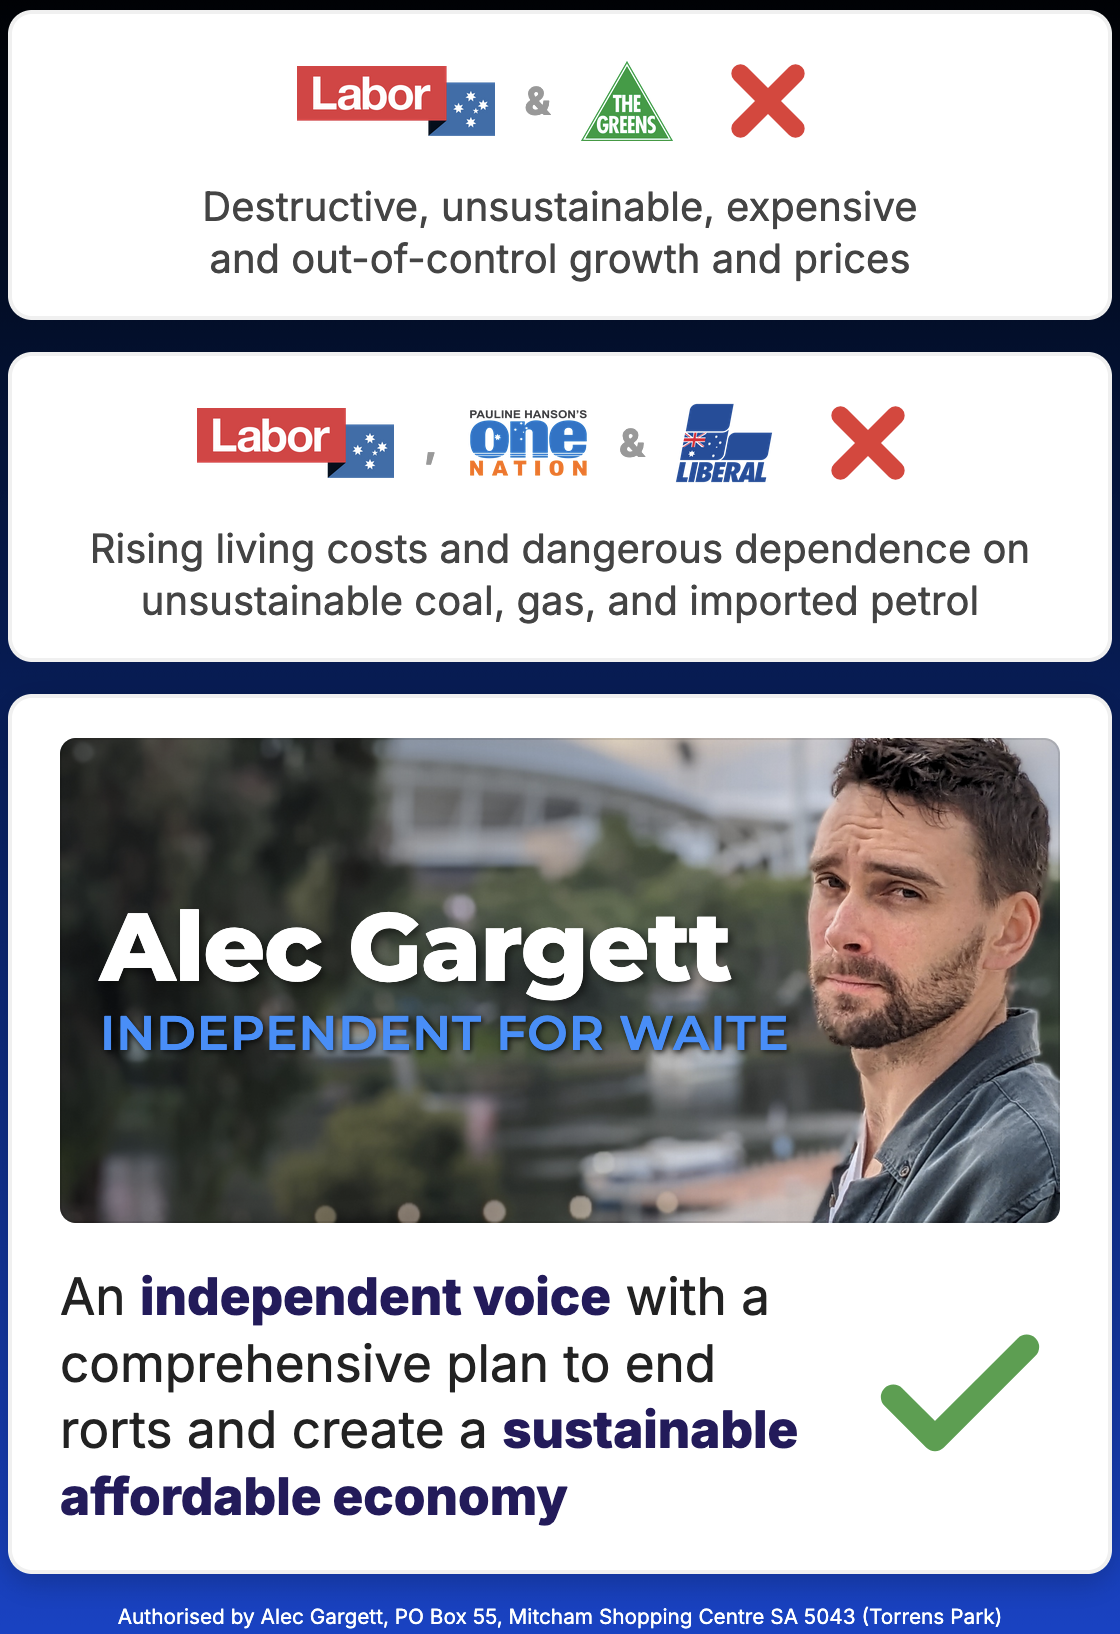
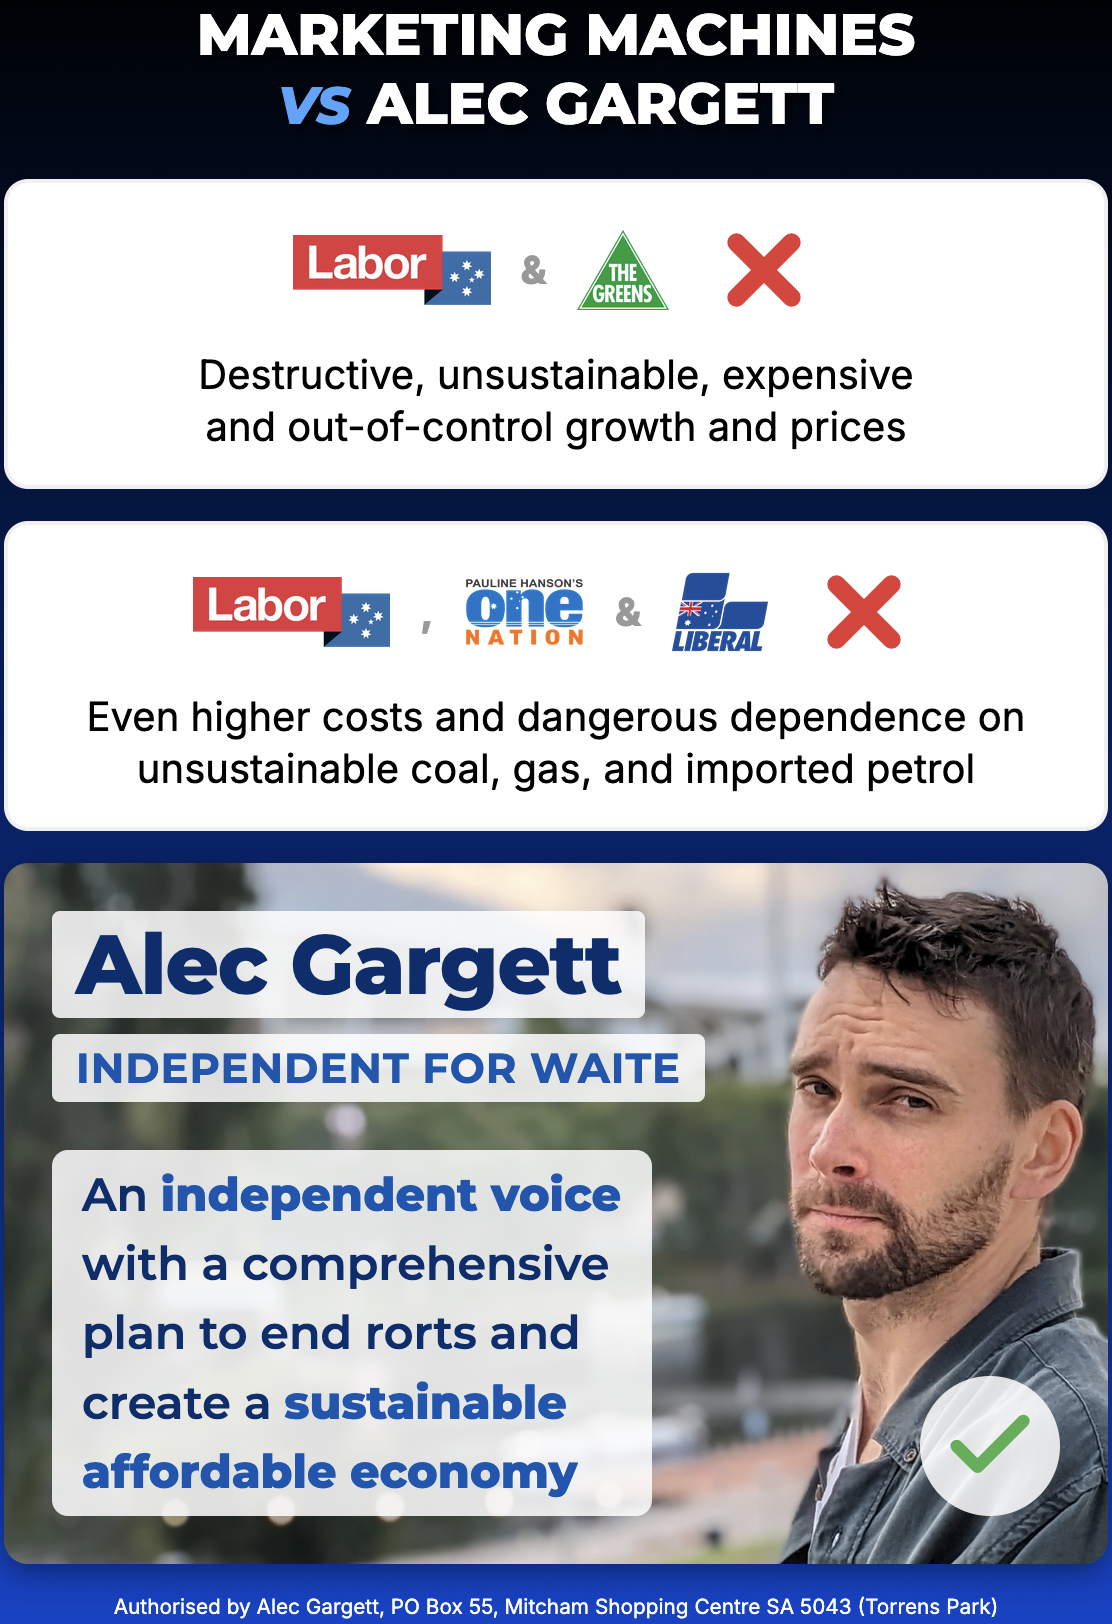
m

diff --git a/party_comparison.html b/party_comparison.html
@@ -40,6 +40,25 @@
             position: relative;
         }
 
+        /* HEADLINE STYLES */
+        .main-title {
+            color: #ffffff;
+            font-family: 'Montserrat', sans-serif;
+            font-size: clamp(1.4rem, 6vw, 1.8rem);
+            font-weight: 800;
+            text-align: center;
+            text-transform: uppercase;
+            line-height: 1.2;
+            text-shadow: 2px 2px 6px rgba(0,0,0,0.8);
+            margin-bottom: 4px; 
+        }
+
+        .main-title .vs {
+            color: #4da6ff; 
+            font-style: italic;
+            font-size: 0.9em;
+        }
+
         .card {
             border-radius: 12px;
             padding: 16px 24px; 
@@ -52,16 +71,8 @@
         }
 
         .card.negative {
-            background: #ffffff;
+            background: rgba(255, 255, 255, 1);
             flex-shrink: 0; 
-        }
-
-        .card.positive {
-            background: #ffffff;
-            padding: 20px 24px; 
-            box-shadow: 0 4px 15px rgba(0, 0, 0, 0.2);
-            flex: 1; 
-            min-height: 0; 
         }
 
         .logo-row {
@@ -73,12 +84,6 @@
             min-height: 45px;
         }
 
-        .card.positive .logo-row {
-            margin-bottom: 20px;
-            flex: 1; 
-            min-height: 0; 
-        }
-
         .logo-row img {
             object-fit: contain;
         }
@@ -88,60 +93,6 @@
         .logo-onenation { height: 35px; width: auto; }
         .logo-libs { height: 40px; width: auto; }
         
-        .custom-logo {
-            width: 100%;
-            height: 100%;
-            background-image: url('images/alec_gargett_adelaide_oval_torrens_river_202303_cropped.jpg');
-            background-size: cover;
-            background-position: center right; 
-            border-radius: 8px;
-            display: flex;
-            flex-direction: column;
-            justify-content: center;
-            position: relative;
-            overflow: hidden;
-            padding-left: 20px; 
-            box-shadow: inset 0 0 0 1px rgba(0,0,0,0.1);
-        }
-
-        .custom-logo::before {
-            content: '';
-            position: absolute;
-            top: 0; bottom: 0; left: 0;
-            width: 80%; 
-            background: linear-gradient(to right, rgba(0,0,0,0.4) 0%, rgba(0,0,0,0) 100%, transparent 100%);
-            z-index: 1;
-        }
-
-        .custom-logo-content {
-            position: relative;
-            z-index: 2;
-            width: 90%; 
-            display: flex;
-            flex-direction: column;
-            gap: 4px;
-        }
-
-        .custom-logo-name {
-            color: #ffffff;
-            font-family: "Montserrat";
-            font-size: clamp(2rem, 8vw, 3rem); 
-            font-weight: 800;
-            line-height: 1;
-            letter-spacing: -0.5px;
-            text-shadow: 2px 2px 4px rgba(0,0,0,0.5);
-        }
-
-        .custom-logo-title {
-            color: #2890ff;
-            font-family: "Montserrat";
-            font-size: clamp(1rem, 4vw, 1.5rem);
-            font-weight: 600;
-            text-transform: uppercase;
-            letter-spacing: 0.5px;
-            text-shadow: 1px 1px 3px rgba(0,0,0,0.8);
-        }
-
         .logo-separator {
             font-weight: 800;
             color: #999;
@@ -157,21 +108,11 @@
 
         .text {
             font-size: 1.25rem;
-            color: #222;
+            color: black;
             line-height: 1.3;
             flex: 1;
         }
 
-        .card.negative .text {
-            color: #444;
-        }
-
-        .card.positive .text strong {
-            color: #241b5e;
-            font-weight: 800;
-        }
-
-        /* Adjusted Icon styling for logo row */
         .icon {
             width: 55px;
             height: 55px;
@@ -182,14 +123,99 @@
             margin-left: 5px;
         }
 
-        /* Specific size for the green check in the bottom row */
-        .card.positive .icon {
-            width: 100px;
-            height: 100px;
-            margin-left: 20px;
+        .icon svg {
+            width: 100%;
+            height: 100%;
         }
 
-        .icon svg {
+        /* --- POSITIVE CARD STYLES --- */
+        .card.positive {
+            background-image: url('images/alec_gargett_adelaide_oval_torrens_river_202303_cropped.jpg');
+            background-size: cover;
+            background-position: right 15%; 
+            padding: 24px; 
+            box-shadow: 0 4px 15px rgba(0, 0, 0, 0.4);
+            flex: 1; 
+            min-height: 0; 
+            border: none;
+            overflow: hidden;
+            justify-content: space-between;
+        }
+
+        .card.positive > * {
+            position: relative;
+            z-index: 2;
+        }
+
+        .positive-header {
+            display: flex;
+            flex-direction: column;
+            gap: 8px;
+            align-items: flex-start;
+        }
+
+        .positive-name {
+            color: #002e6e;
+            font-family: "Montserrat", sans-serif;
+            font-size: clamp(2rem, 7vw, 2.6rem); 
+            font-weight: 800;
+            line-height: 1.1;
+            letter-spacing: -0.5px;
+            background: rgba(255, 255, 255, 0.85);
+            padding: 4px 12px;
+            border-radius: 4px;
+        }
+
+        .positive-title {
+            color: #0056b3;
+            font-family: "Montserrat", sans-serif;
+            font-size: clamp(1rem, 3.5vw, 1.3rem);
+            font-weight: 700;
+            text-transform: uppercase;
+            letter-spacing: 0.5px;
+            background: rgba(255, 255, 255, 0.85);
+            padding: 4px 12px;
+            border-radius: 4px;
+        }
+
+        .positive-content-row {
+            display: flex;
+            align-items: flex-end;
+            justify-content: space-between;
+            gap: 15px;
+        }
+
+        .positive-text {
+            color: #002e6e;
+            font-family: "Montserrat", sans-serif;
+            font-size: clamp(1.1rem, 4.5vw, 1.44rem);
+            font-weight: 600;
+            line-height: 1.5; /* Increased line height for verticality */
+            background: rgba(255, 255, 255, 0.85);
+            
+            /* Box Sizing Adjustments */
+            padding: 5px 15px; /* Taller vertical padding */
+            max-width: 300px;    /* Narrower width to force text wrapping */
+            
+            border-radius: 8px;
+            text-shadow: none;
+        }
+
+        .positive-text strong {
+            color: #0056b3;
+            font-weight: 800;
+        }
+
+        .positive-icon {
+            width: 70px;
+            height: 70px;
+            flex-shrink: 0;
+            background: rgba(255, 255, 255, 0.85);
+            padding: 10px;
+            border-radius: 50%;
+        }
+        
+        .positive-icon svg {
             width: 100%;
             height: 100%;
         }
@@ -206,18 +232,22 @@
         }
 
         @media (max-width: 480px) {
-            .text { font-size: 1.1rem; }
+            .positive-text { max-width: 180px; padding: 15px 12px; }
+            .main-title { font-size: 1.25rem; margin-bottom: 0; }
             .auth-text { font-size: 0.55rem; bottom: 8px; }
             .ad-container { padding: 16px 16px 32px 16px; gap: 12px; }
-            .card { padding: 12px 16px; }
-            .custom-logo-name { font-size: 1.6rem; }
-            .custom-logo-title { font-size: 0.85rem; }
+            .card.positive { padding: 16px; }
+            .positive-icon { width: 50px; height: 50px; }
         }
     </style>
 </head>
 <body>
 
     <div class="ad-container">
+        
+        <!-- TITLE -->
+        <h1 class="main-title">Marketing machines
+         <br> <span class="vs">vs</span> Alec Gargett</h1>
 
         <!-- ROW 1 -->
         <div class="card negative">
@@ -254,26 +284,23 @@
                 </div>
             </div>
             <div class="content-row">
-                <div class="text">Rising living costs and dangerous dependence on unsustainable coal, gas, and imported petrol</div>
+                <div class="text">Even higher costs and dangerous dependence on unsustainable coal, gas, and imported petrol</div>
             </div>
         </div>
 
         <!-- ROW 3 -->
         <div class="card positive">
-            <div class="logo-row">
-                <div class="custom-logo">
-                    <div class="custom-logo-content">
-                        <div class="custom-logo-name">Alec Gargett</div>
-                        <div class="custom-logo-title">Independent for Waite</div>
-                    </div>
-                </div>
+            <div class="positive-header">
+                <div class="positive-name">Alec Gargett</div>
+                <div class="positive-title">Independent for Waite</div>
             </div>
-            <div class="content-row" style="text-align: left;">
-                <div class="text" style="font-size: 1.6rem;">
+            
+            <div class="positive-content-row">
+                <div class="positive-text">
                     An <strong>independent voice</strong> with a comprehensive plan to end rorts and create a <strong>sustainable affordable economy</strong>
                 </div>
-                <div class="icon">
-                    <svg viewBox="0 0 24 24" fill="none" stroke="#43A047" stroke-width="3" stroke-linecap="round" stroke-linejoin="round">
+                <div class="positive-icon">
+                    <svg viewBox="0 0 24 24" fill="none" stroke="#4CAF50" stroke-width="3" stroke-linecap="round" stroke-linejoin="round">
                         <polyline points="20 6 9 17 4 12"></polyline>
                     </svg>
                 </div>
